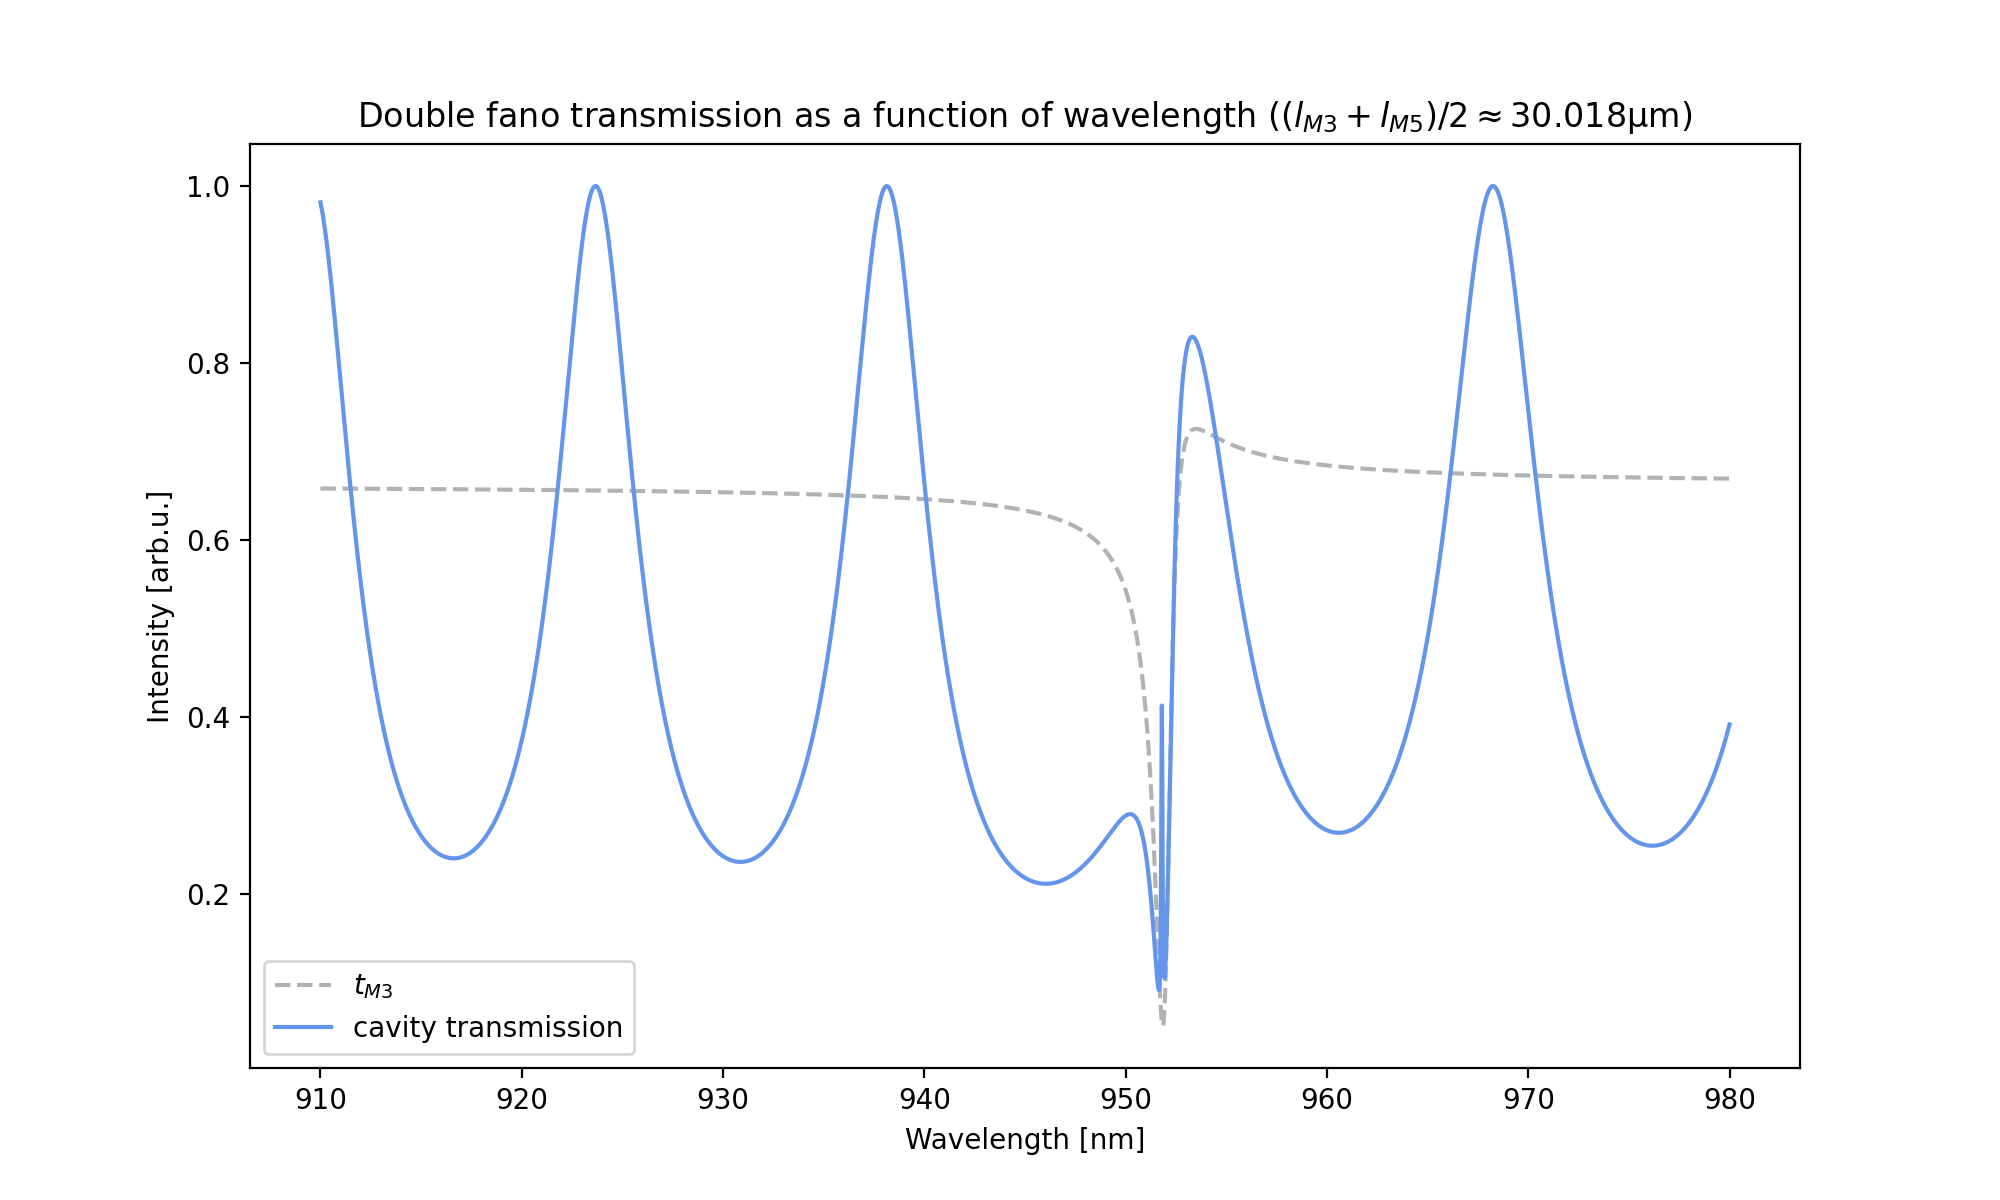
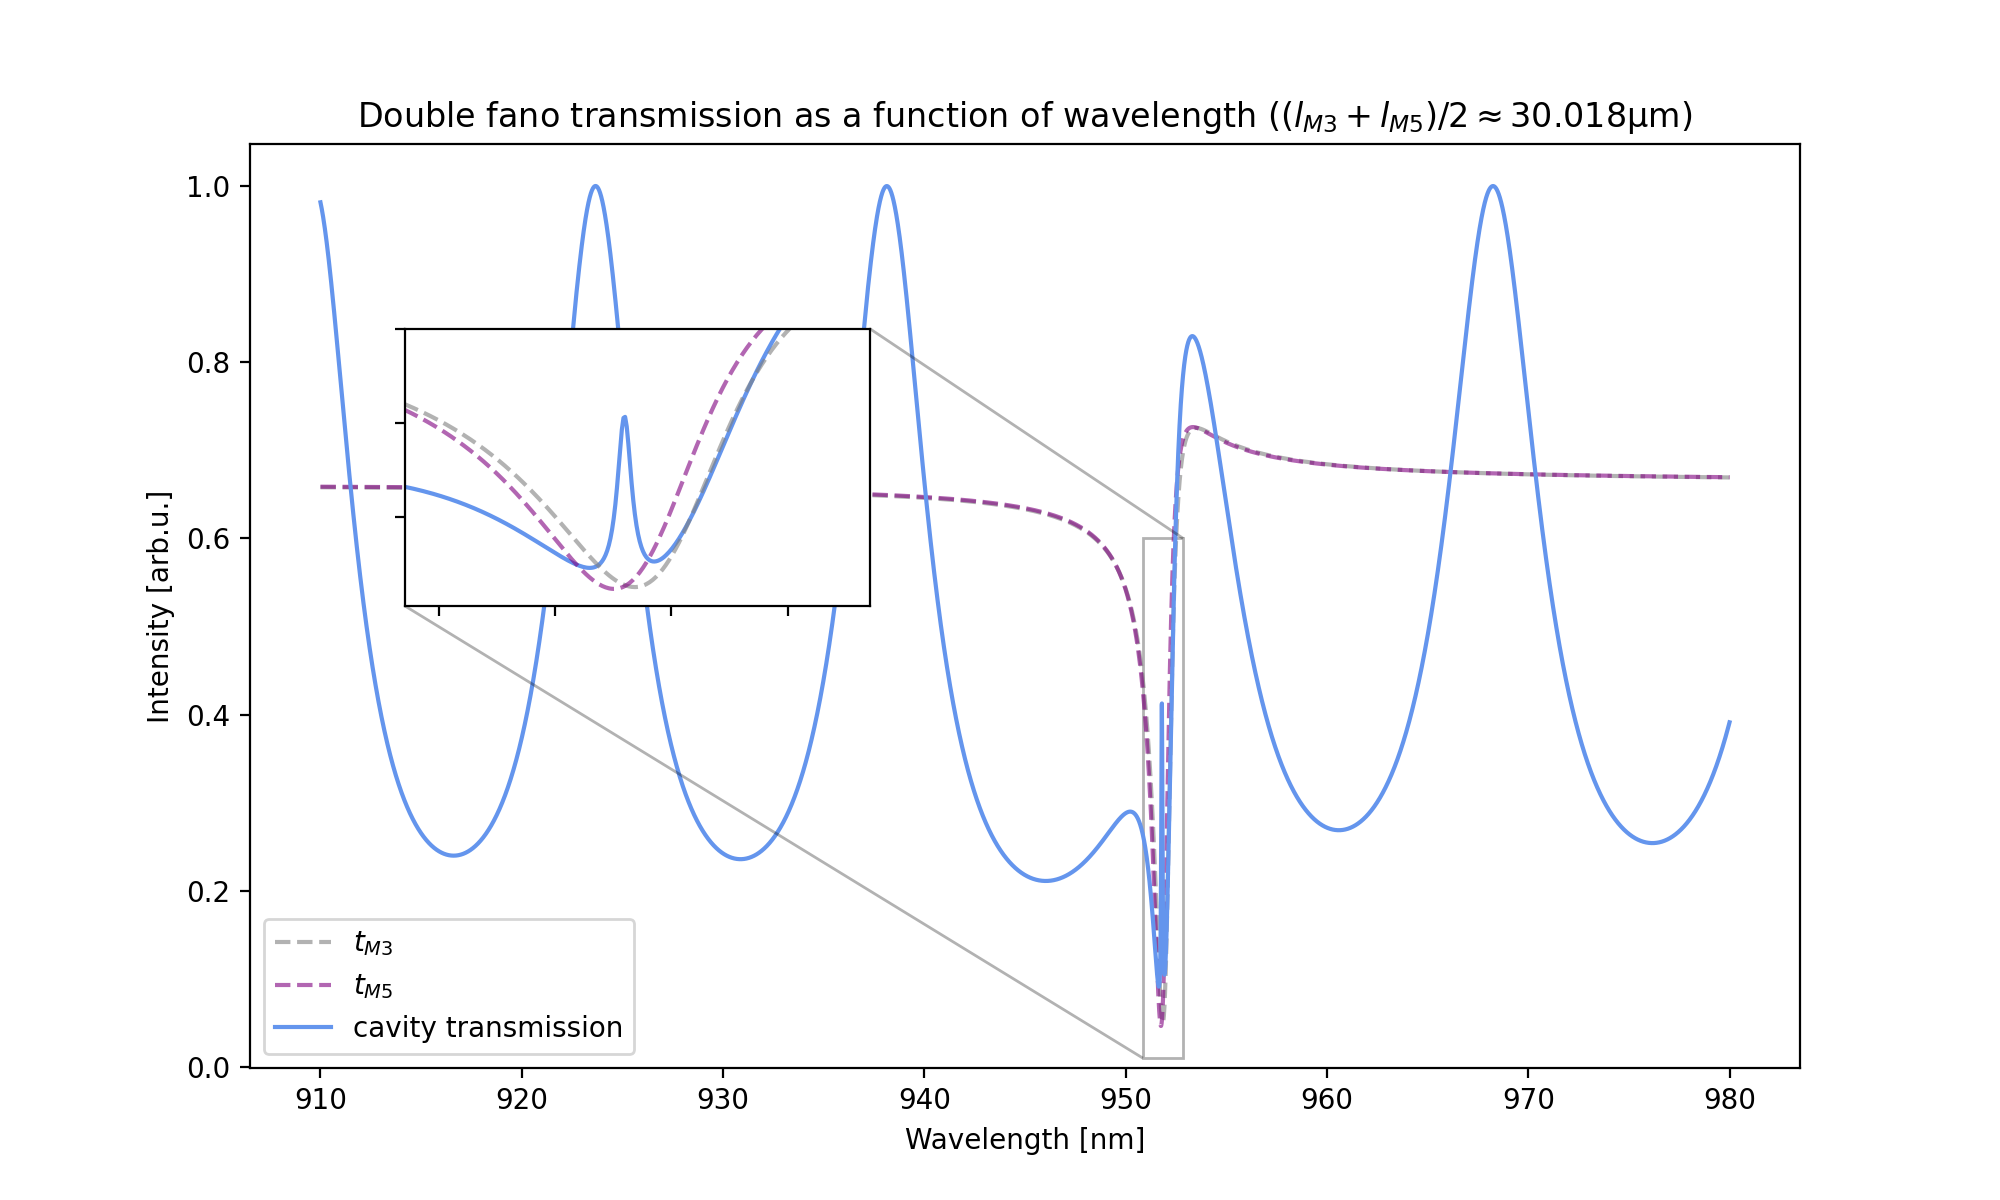
-

diff --git a/fano_theory.py b/fano_theory.py
@@ -350,32 +350,37 @@ def dual_fano_transmission(params1: list, params2: list, length: float, λs: np.
 def dual_fano_transmission_plot(params1: list, params2: list, length: float, λs: np.array, intracavity=False, losses=True, zoom=False, grating_trans=False):
     Ts =  dual_fano_transmission(params1, params2, length, λs, intracavity=intracavity, losses=losses)
     fig, ax = plt.subplots(figsize=(10,6))
-    if zoom == True:
+    if zoom == True and grating_trans == False:
         x1, x2, y1, y2 = params1[0]-1, params1[0]+1, 0.05, 0.6
-        axins = ax.inset_axes([0.7, 0.65, 0.25, 0.25])
+        axins = ax.inset_axes([0.1, 0.50, 0.30, 0.30])
         axins.plot(λs,Ts)
         axins.set_xlim(x1,x2)
         axins.set_ylim(y1,y2)
         axins.set_xticklabels([])
         axins.set_yticklabels([])
-        mark_inset(ax, axins, loc1=2, loc2=4, edgecolor="black", alpha=0.3)
-    if grating_trans == True:
+        mark_inset(ax, axins, loc1=1, loc2=3, edgecolor="black", alpha=0.3)
+    if grating_trans == True and zoom == False:
         tg1 = model(λs, *params1)
         tg2 = model(λs, *params2)
-        tg_total = np.abs(tg1*tg2)
         ax.plot(λs, tg1, "gray", linestyle="--", alpha=0.6, label="$t_{M3}$")
+        ax.plot(λs, tg2, "purple", linestyle="--", alpha=0.6, label="$t_{M5}$")
     if grating_trans == True and zoom == True:
         tg1 = model(λs, *params1)
-        x1, x2, y1, y2 = params1[0]-1, params1[0]+1, 0.05, 0.6
-        axins = ax.inset_axes([0.7, 0.65, 0.25, 0.25])
+        tg2 = model(λs, *params2)
+        ax.plot(λs, tg1, "gray", linestyle="--", alpha=0.6, label="$t_{M3}$")
+        ax.plot(λs, tg2, "purple", linestyle="--", alpha=0.6, label="$t_{M5}$")
+        x1, x2, y1, y2 = params1[0]-1, params1[0]+1, 0.01, 0.6
+        axins = ax.inset_axes([0.1, 0.50, 0.30, 0.30])
         axins.plot(λs, Ts, color="cornflowerblue")
         axins.plot(λs, tg1, "gray", linestyle="--", alpha=0.6)
+        axins.plot(λs, tg2, "purple", linestyle="--", alpha=0.6)
         axins.set_xlim(x1,x2)
         axins.set_ylim(y1,y2)
         axins.set_xticklabels([])
         axins.set_yticklabels([])
-        mark_inset(ax, axins, loc1=2, loc2=4, edgecolor="black", alpha=0.3)
+        mark_inset(ax, axins, loc1=1, loc2=3, edgecolor="black", alpha=0.3)
     ax.set_title("Double fano transmission as a function of wavelength ($\\left(l_{M3} + l_{M5}\\right)/2 \\approx$%sμm)" % str(round(length*1e-3,3)))
+    #ax.set_title("Double fano transmission as a function of wavelength ($l_{M3} \\approx$%sμm)" % str(round(length*1e-3,3)))
     ax.set_xlabel("Wavelength [nm]")
     ax.set_ylabel("Intensity [arb.u.]")
     ax.plot(λs, Ts, "cornflowerblue", label="cavity transmission")
@@ -590,9 +595,9 @@ def line_width_comparison(params1: list, params2: list, length: float, intracavi
 #length = resonant_cavity_length(params1, λs, lmin=10)
 #fano_cavity_transmission_plot(params1, length, λs, intracavity=False, losses=True)
 
-#length = (double_cavity_length(params1, params2, λs, lmin=30) + double_cavity_length(params2, params1, λs, lmin=30))/2
+length = (double_cavity_length(params1, params2, λs, lmin=30) + double_cavity_length(params2, params1, λs, lmin=30))/2
 #length = double_cavity_length(params1, params2, λs, lmin=30)
-#dual_fano_transmission_plot(params1, params2, length, λs, intracavity=False, losses=True, grating_trans=True, zoom=False)
+dual_fano_transmission_plot(params1, params2, length, λs, intracavity=False, losses=True, grating_trans=True, zoom=True)
 
 #Δ = 0.1
 #lmin=30
